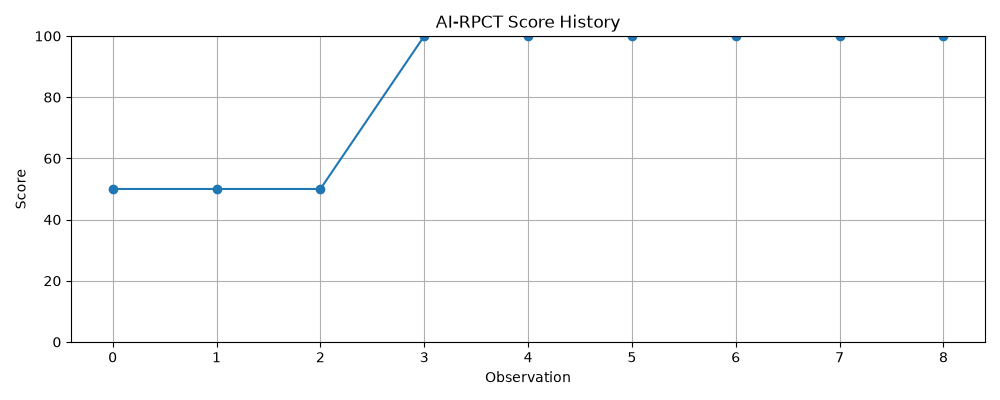
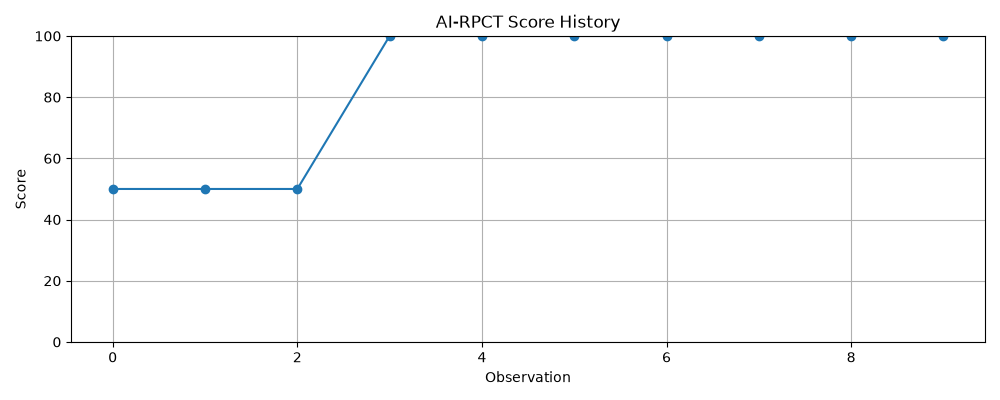
AI-RPCT v8.4 sqlite pipeline integration

diff --git a/dashboard.html b/dashboard.html
@@ -29,7 +29,7 @@ th { color:#9ca3af; }
       <div class="drivers">Trend: STABLE</div>
       <div class="drivers">Drivers: NVDA above 200, BTC above 60k, AKT above 0.75, H100 price above $2/hr, A100 price above $1/hr, H100 availability constrained, A100 availability constrained</div>
       <br>
-      <div>Last update: 2026-06-16 16:48:36</div>
+      <div>Last update: 2026-06-16 16:55:55</div>
     </div>
     
     <div class="card">
@@ -69,7 +69,7 @@ th { color:#9ca3af; }
 <h2>Market Snapshot</h2>
 <table>
 <tr><th>Asset</th><th>Ticker</th><th>Price</th><th>Timestamp</th></tr>
-<tr><td>AKT</td><td>AKT-USD</td><td>$0.7790</td><td>2026-06-16 16:48:36</td></tr><tr><td>BTC</td><td>BTC-USD</td><td>$65672.7266</td><td>2026-06-16 16:48:34</td></tr><tr><td>ETH</td><td>ETH-USD</td><td>$1780.8101</td><td>2026-06-16 16:48:34</td></tr><tr><td>NVDA</td><td>NVDA</td><td>$209.5350</td><td>2026-06-16 16:48:33</td></tr>
+<tr><td>AKT</td><td>AKT-USD</td><td>$0.7770</td><td>2026-06-16 16:55:55</td></tr><tr><td>BTC</td><td>BTC-USD</td><td>$65596.2891</td><td>2026-06-16 16:55:54</td></tr><tr><td>ETH</td><td>ETH-USD</td><td>$1778.7000</td><td>2026-06-16 16:55:54</td></tr><tr><td>NVDA</td><td>NVDA</td><td>$209.5000</td><td>2026-06-16 16:55:53</td></tr>
 </table>
 
 <h2>GPU Market Snapshot</h2>
@@ -81,7 +81,7 @@ th { color:#9ca3af; }
 <h2>Last 10 RPCT Scores</h2>
 <table>
 <tr><th>Timestamp</th><th>Score</th><th>Regime</th><th>Drivers</th></tr>
-<tr><td>2026-06-16 15:37:51</td><td>50</td><td>Watch</td><td>nan</td></tr><tr><td>2026-06-16 15:41:29</td><td>50</td><td>Watch</td><td>nan</td></tr><tr><td>2026-06-16 15:42:06</td><td>50</td><td>Watch</td><td>No major stress drivers</td></tr><tr><td>2026-06-16 15:58:20</td><td>100</td><td>Critical</td><td>NVDA above 200, BTC above 60k, ETH above 1800, AKT above 0.75, H100 price above $2/hr, A100 price above $1/hr, H100 availability constrained, A100 availability constrained</td></tr><tr><td>2026-06-16 16:04:24</td><td>100</td><td>Critical</td><td>NVDA above 200, BTC above 60k, ETH above 1800, AKT above 0.75, H100 price above $2/hr, A100 price above $1/hr, H100 availability constrained, A100 availability constrained</td></tr><tr><td>2026-06-16 16:10:41</td><td>100</td><td>Critical</td><td>NVDA above 200, BTC above 60k, AKT above 0.75, H100 price above $2/hr, A100 price above $1/hr, H100 availability constrained, A100 availability constrained</td></tr><tr><td>2026-06-16 16:36:04</td><td>100</td><td>Critical</td><td>NVDA above 200, BTC above 60k, AKT above 0.75, H100 price above $2/hr, A100 price above $1/hr, H100 availability constrained, A100 availability constrained</td></tr><tr><td>2026-06-16 16:41:04</td><td>100</td><td>Critical</td><td>NVDA above 200, BTC above 60k, AKT above 0.75, H100 price above $2/hr, A100 price above $1/hr, H100 availability constrained, A100 availability constrained</td></tr><tr><td>2026-06-16 16:48:36</td><td>100</td><td>Critical</td><td>NVDA above 200, BTC above 60k, AKT above 0.75, H100 price above $2/hr, A100 price above $1/hr, H100 availability constrained, A100 availability constrained</td></tr>
+<tr><td>2026-06-16 15:37:51</td><td>50</td><td>Watch</td><td>nan</td></tr><tr><td>2026-06-16 15:41:29</td><td>50</td><td>Watch</td><td>nan</td></tr><tr><td>2026-06-16 15:42:06</td><td>50</td><td>Watch</td><td>No major stress drivers</td></tr><tr><td>2026-06-16 15:58:20</td><td>100</td><td>Critical</td><td>NVDA above 200, BTC above 60k, ETH above 1800, AKT above 0.75, H100 price above $2/hr, A100 price above $1/hr, H100 availability constrained, A100 availability constrained</td></tr><tr><td>2026-06-16 16:04:24</td><td>100</td><td>Critical</td><td>NVDA above 200, BTC above 60k, ETH above 1800, AKT above 0.75, H100 price above $2/hr, A100 price above $1/hr, H100 availability constrained, A100 availability constrained</td></tr><tr><td>2026-06-16 16:10:41</td><td>100</td><td>Critical</td><td>NVDA above 200, BTC above 60k, AKT above 0.75, H100 price above $2/hr, A100 price above $1/hr, H100 availability constrained, A100 availability constrained</td></tr><tr><td>2026-06-16 16:36:04</td><td>100</td><td>Critical</td><td>NVDA above 200, BTC above 60k, AKT above 0.75, H100 price above $2/hr, A100 price above $1/hr, H100 availability constrained, A100 availability constrained</td></tr><tr><td>2026-06-16 16:41:04</td><td>100</td><td>Critical</td><td>NVDA above 200, BTC above 60k, AKT above 0.75, H100 price above $2/hr, A100 price above $1/hr, H100 availability constrained, A100 availability constrained</td></tr><tr><td>2026-06-16 16:48:36</td><td>100</td><td>Critical</td><td>NVDA above 200, BTC above 60k, AKT above 0.75, H100 price above $2/hr, A100 price above $1/hr, H100 availability constrained, A100 availability constrained</td></tr><tr><td>2026-06-16 16:55:55</td><td>100</td><td>Critical</td><td>NVDA above 200, BTC above 60k, AKT above 0.75, H100 price above $2/hr, A100 price above $1/hr, H100 availability constrained, A100 availability constrained</td></tr>
 </table>
 </body>
 </html>

diff --git a/reports/research_snapshot_20260616.md b/reports/research_snapshot_20260616.md
@@ -1,6 +1,6 @@
 # AI-RPCT Research Snapshot
 
-Generated: 2026-06-16 16:48:38.640806
+Generated: 2026-06-16 16:55:57.591265
 
 ## Current Infrastructure Risk
 